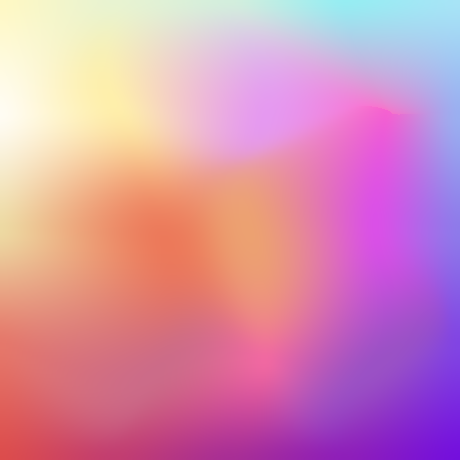
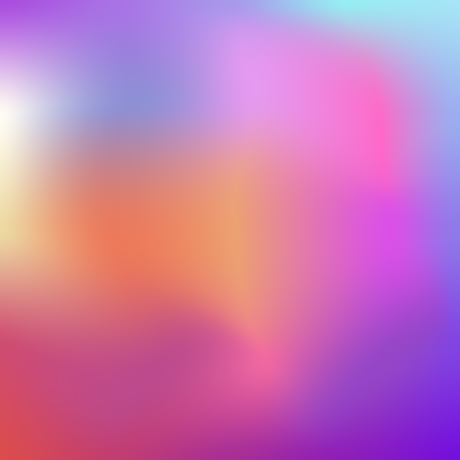
Updated bg img

diff --git a/src/App.css b/src/App.css
@@ -23,7 +23,7 @@ h3 {
 }
 
 .search-bar {
-  padding: 25px 30px 30px 30px;
+  padding: 30px 30px 30px 30px;
   background-color: transparent;
   border-radius: 30px;
   border: none;
@@ -82,7 +82,7 @@ input {
   text-align: center;
   max-width: 350px;
   margin: 20px auto;
-  padding-bottom: 15px;
+  padding-bottom: 25px;
   padding-left: 22px;
   padding-right: 22px;
   font-family: "Quicksand", sans-serif;

diff --git a/src/Weather.js b/src/Weather.js
@@ -63,6 +63,6 @@ export default function Weather(props) {
     );
   } else {
     search();
-    return <Loader type="ThreeDots" color="#885EF1" height={80} width={80} />;
+    return <Loader type="ThreeDots" color="#F2B68D" height={80} width={80} />;
   }
 }
